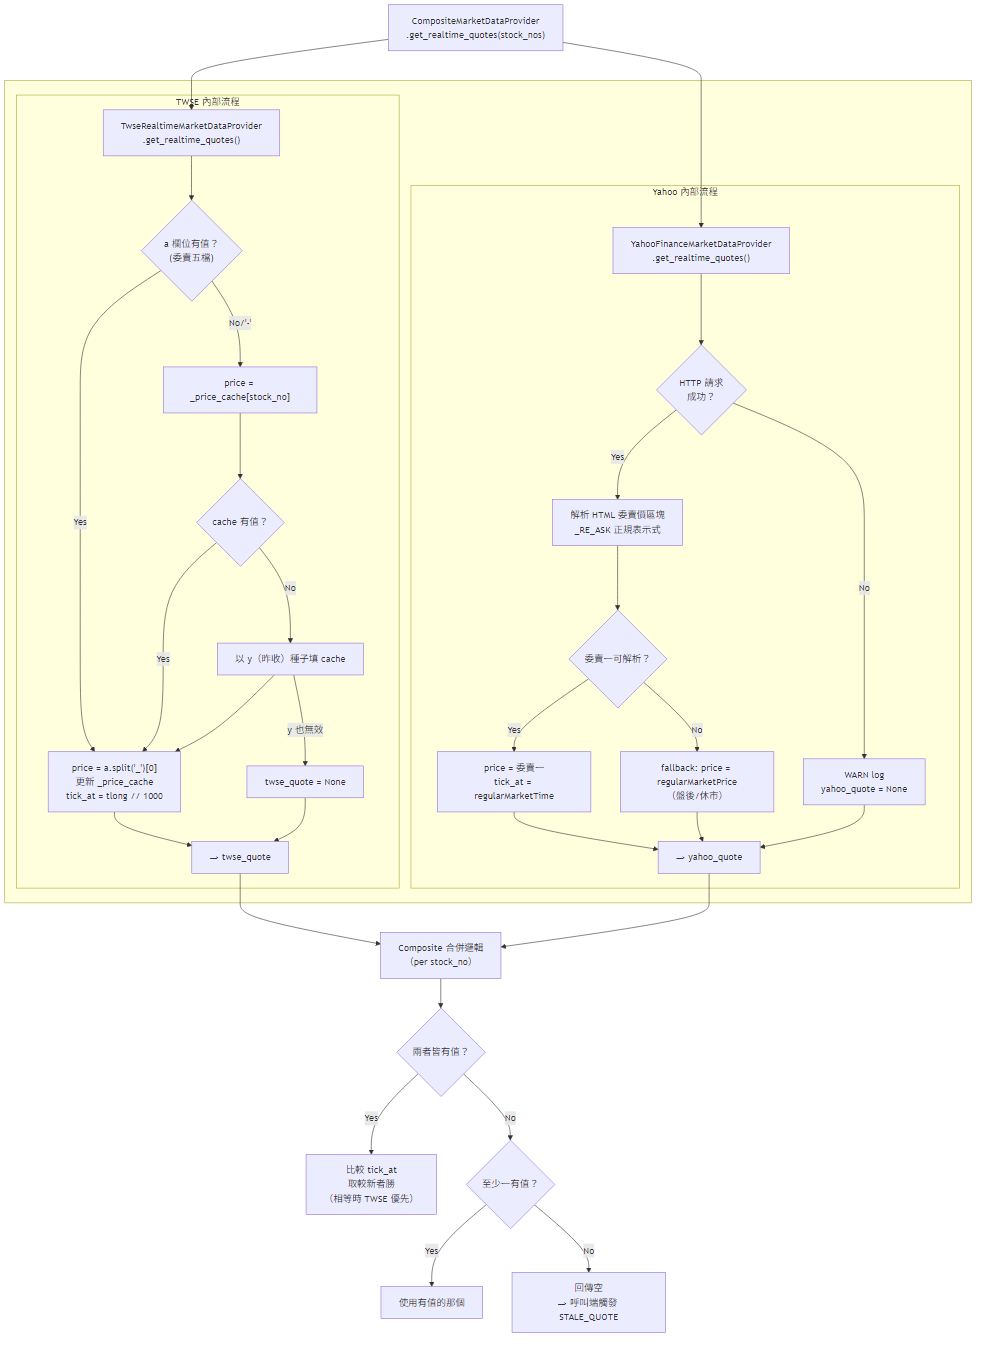
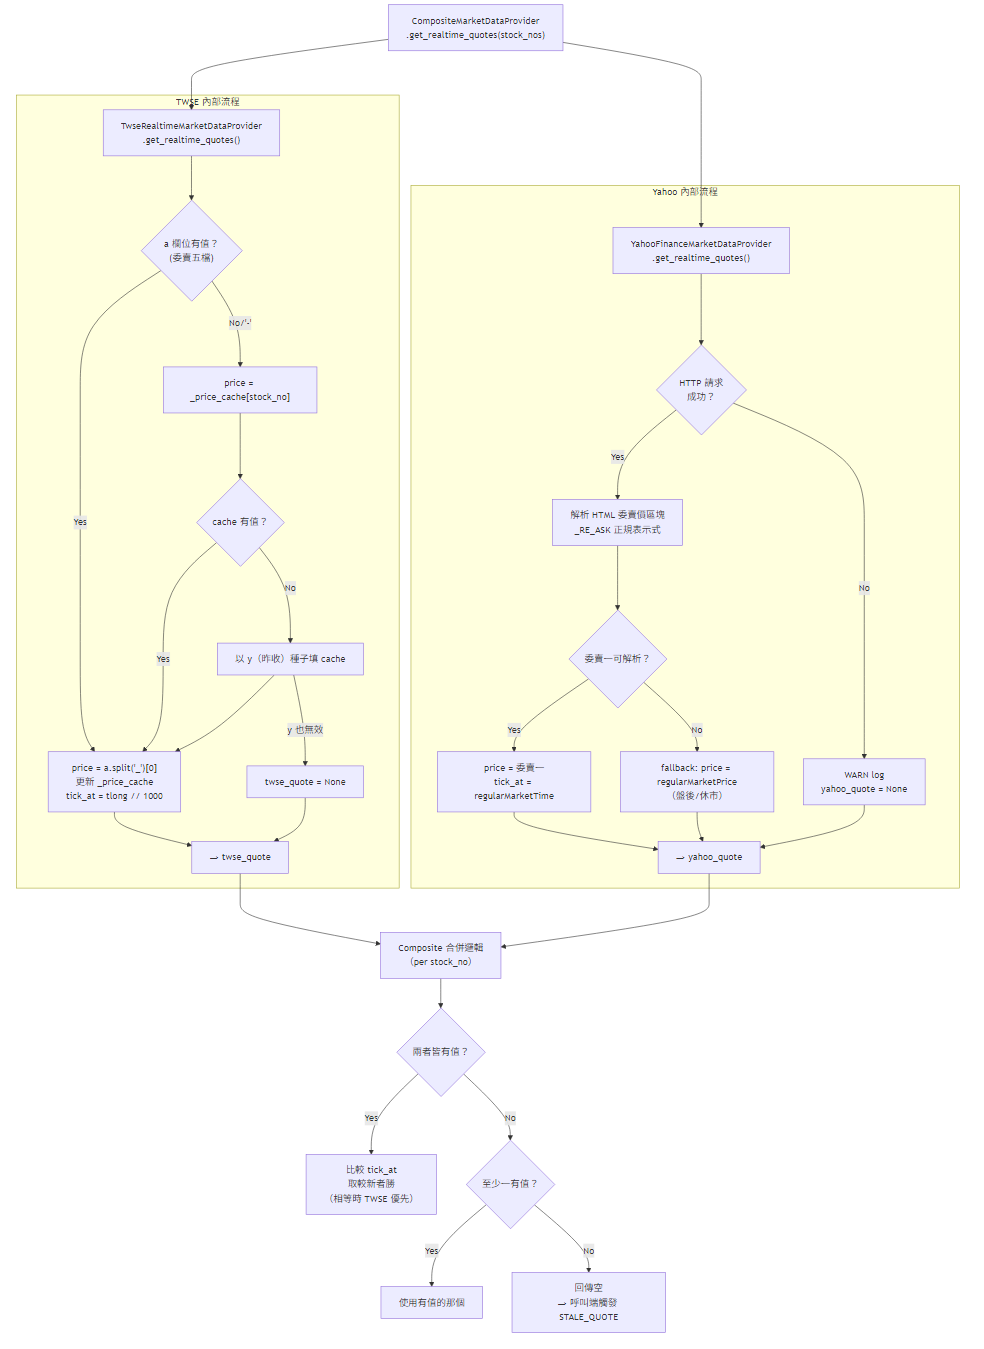
fix(docs): hide WRAPPER subgraph border/fill in 05-market-data-adapter

Changed region(s): [[0.0, 0.0623, 1.0, 0.685]]

diff --git a/docs/architecture/diagrams/05-market-data-adapter.md b/docs/architecture/diagrams/05-market-data-adapter.md
@@ -84,6 +84,8 @@ flowchart TD
     BOTH -- No --> EITHER
     EITHER -- Yes --> USE_AVAIL
     EITHER -- No --> STALE
+
+    style WRAPPER fill:none,stroke:none
 ```
 
 ---
